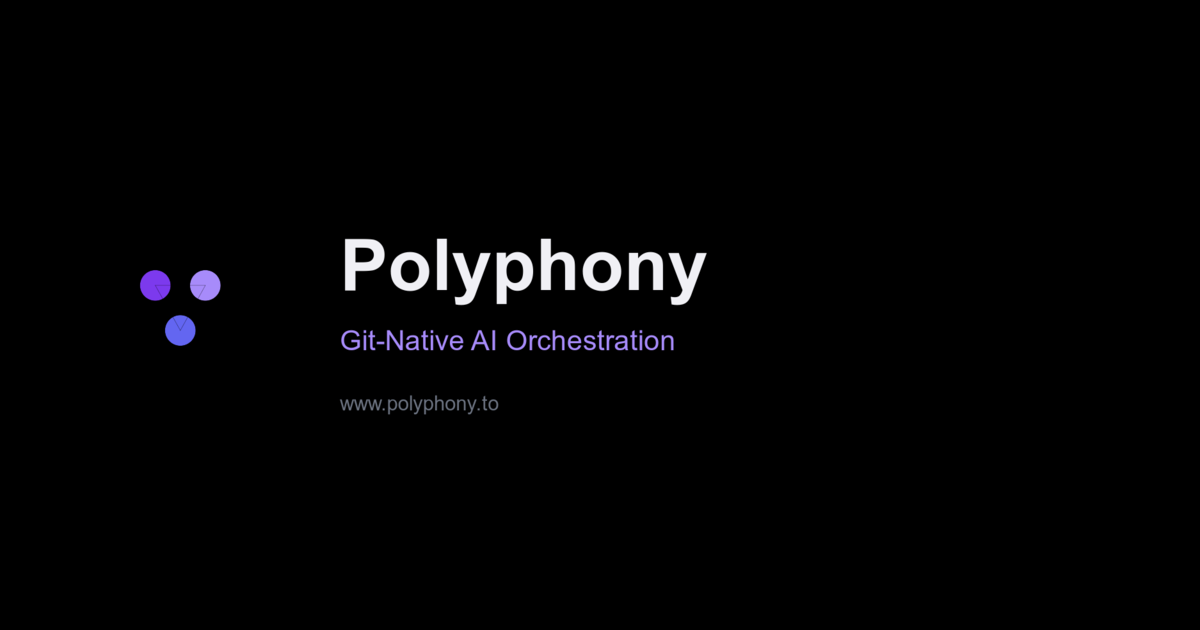
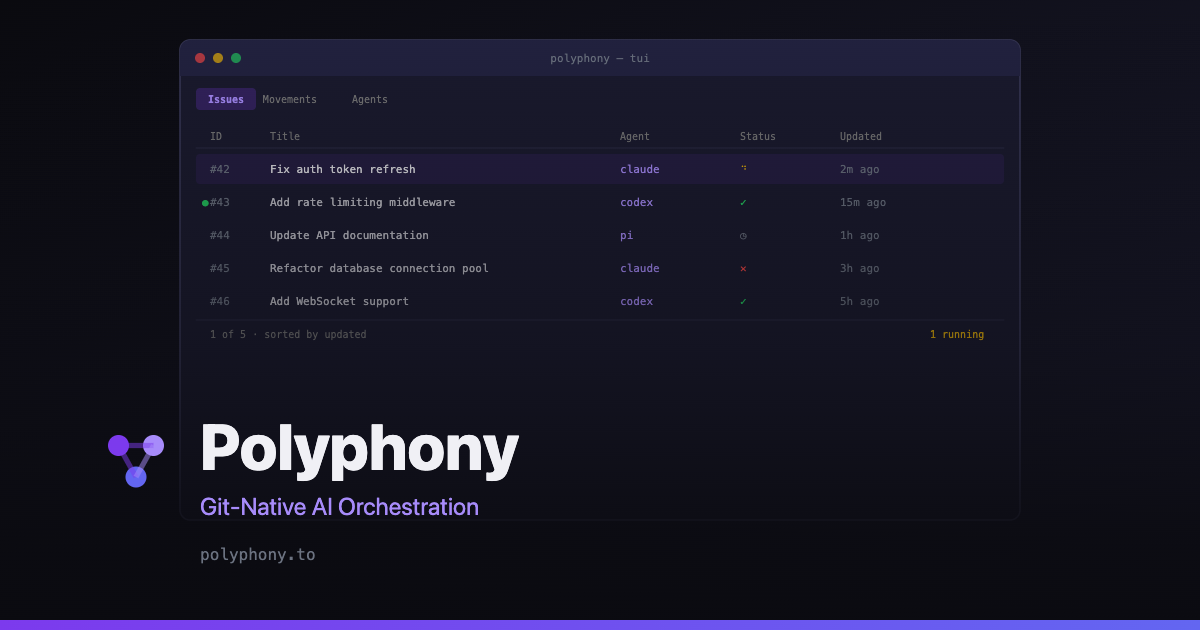
feat(website): redesign OG image with dashboard backdrop
Show the TUI dashboard as a visible background behind the Polyphony
branding in the social preview image. Expand title and description
to optimal lengths for social platforms. Bump image cache version.

diff --git a/website/index.html b/website/index.html
@@ -4,27 +4,27 @@
   <meta charset="UTF-8">
   <meta name="viewport" content="width=device-width, initial-scale=1.0">
   <meta name="color-scheme" content="light dark">
-  <title>Polyphony — Git-Native AI Orchestration</title>
-  <meta name="description" content="Git-native AI orchestration engine. Trigger coding agents from issues, PRs, webhooks, or schedules.">
+  <title>Polyphony — Git-Native AI Orchestration for Engineers</title>
+  <meta name="description" content="Git-native AI orchestration engine. Trigger coding agents from issues, PRs, webhooks, or schedules. From issue to shipped code, fully automated.">
   <link rel="canonical" href="https://www.polyphony.to/">
   <!-- Open Graph -->
   <meta property="og:url" content="https://www.polyphony.to/">
-  <meta property="og:title" content="Polyphony — Git-Native AI Orchestration">
-  <meta property="og:description" content="Git-native AI orchestration engine. Trigger coding agents from issues, PRs, webhooks, or schedules.">
+  <meta property="og:title" content="Polyphony — Git-Native AI Orchestration for Engineers">
+  <meta property="og:description" content="Git-native AI orchestration engine. Trigger coding agents from issues, PRs, webhooks, or schedules. From issue to shipped code, fully automated.">
   <meta property="og:type" content="website">
   <meta property="og:site_name" content="Polyphony">
   <meta property="og:locale" content="en_US">
-  <meta property="og:image" content="https://www.polyphony.to/assets/og-image.png?v=2">
+  <meta property="og:image" content="https://www.polyphony.to/assets/og-image.png?v=3">
   <meta property="og:image:width" content="1200">
   <meta property="og:image:height" content="630">
-  <meta property="og:image:alt" content="Polyphony — Git-Native AI Orchestration">
+  <meta property="og:image:alt" content="Polyphony — Git-Native AI Orchestration for Engineers">
 
   <!-- Twitter Card -->
   <meta name="twitter:card" content="summary_large_image">
-  <meta name="twitter:title" content="Polyphony — Git-Native AI Orchestration">
-  <meta name="twitter:description" content="Git-native AI orchestration engine. Trigger coding agents from issues, PRs, webhooks, or schedules.">
-  <meta name="twitter:image" content="https://www.polyphony.to/assets/og-image.png?v=2">
-  <meta name="twitter:image:alt" content="Polyphony — Git-Native AI Orchestration">
+  <meta name="twitter:title" content="Polyphony — Git-Native AI Orchestration for Engineers">
+  <meta name="twitter:description" content="Git-native AI orchestration engine. Trigger coding agents from issues, PRs, webhooks, or schedules. From issue to shipped code, fully automated.">
+  <meta name="twitter:image" content="https://www.polyphony.to/assets/og-image.png?v=3">
+  <meta name="twitter:image:alt" content="Polyphony — Git-Native AI Orchestration for Engineers">
 
   <!-- Favicon -->
   <link rel="icon" type="image/svg+xml" href="assets/favicon.svg">
